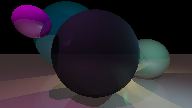
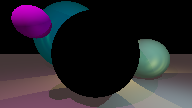
Work on transmission, not finished

diff --git a/scene.c b/scene.c
@@ -35,17 +35,22 @@ float map(Scene *self, Vector3 *position, SDFInstance **out) {
     return closest_distance;
 }
 
+int is_inside_instance(Scene *self, Vector3 *position) {
+    SDFInstance *out = NULL;
+    return map(self, position, &out) < 0;
+}
+
 //TODO leverage explicit surface formulas
 //Leave ray marching for implicit surfaces (mandelbulb, etc.)
-//Use initial map call to determine if march direction should be reversed (for traversing through the inside of an instance)
 SDFInstance* ray_march(Scene *self, Ray *r, float t_max, Vector3 *out) {
     marches++;
     static Vector3 temp_v = (Vector3){};
     Vector3 *position = vec3_cpy(r->origin, out);
     SDFInstance *result = NULL;
+    int direction = is_inside_instance(self, r->origin) ? -1 : 1;
     float total_distance = 0;
     for (int i = 0; i < SCENE_MARCH_ITER_MAX; i++) {
-        float closest_distance = map(self, position, &result);
+        float closest_distance = direction * map(self, position, &result);
         float progress_distance = closest_distance < 0 ? closest_distance : closest_distance;// * 1.2;
         total_distance += progress_distance;
         vec3_add(position, vec3_mul(r->direction, progress_distance, &temp_v), position);
@@ -53,7 +58,7 @@ SDFInstance* ray_march(Scene *self, Ray *r, float t_max, Vector3 *out) {
             result = NULL;
             break;
         }
-        else if (progress_distance < EPSILON) {
+        else if (fabs(progress_distance) < EPSILON) {
             break;
         }
     }
@@ -233,14 +238,21 @@ Color3* get_color_iterative(Scene *self, Ray *r, Color3 *out) {
             }
             if (curr_depth < SCENE_RECURSION_DEPTH) {
                 if (transmission_alpha > SCENE_ALPHA_MIN) {
-                    //TODO
+                    *(alpha_stack + total) = transmission_alpha;
+                    *(depth_stack + total) = curr_depth + 1;
+                    *(ior_stack + total) = hit_instance->material->ior;
+                    Ray *next_ray = *(ray_stack + total);
+                    if (refract_vector3(curr_ray->direction, curr_normal, SCENE_AIR_IOR, next_ray->direction)) {
+                        perturb_vector3(curr_position, curr_normal, next_ray->origin);
+                        total++;
+                    }
                 }
                 if (reflectance_alpha > SCENE_ALPHA_MIN) {
                     *(alpha_stack + total) = reflectance_alpha;
                     *(depth_stack + total) = curr_depth + 1;
                     *(ior_stack + total) = curr_ior;
                     Ray *next_ray = *(ray_stack + total);
-                    perturb_vector3(curr_position, curr_normal, next_ray->origin);
+                    perturb_vector3(curr_position, vec3_neg(curr_normal, next_ray->origin), next_ray->origin);
                     reflect_vector3(curr_ray->direction, curr_normal, next_ray->direction);
                     total++;
                 }

diff --git a/main.c b/main.c
@@ -37,7 +37,7 @@ int main(void) {
     sphere_a->material->color = color3(.8, .8, 1);
     sphere_a->material->ior = 1.125;
     sphere_a->material->reflectance = .1;
-    sphere_a->material->transmission = .9;
+    sphere_a->material->transmission = 1;
 
     SDFInstance *sphere_b = sdf_instance(sphere);
     sphere_b->instance->position = vector3(5, -.5, 8);
